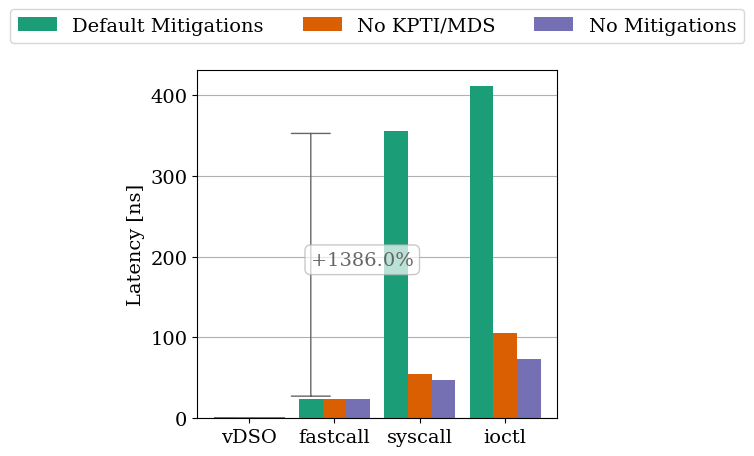
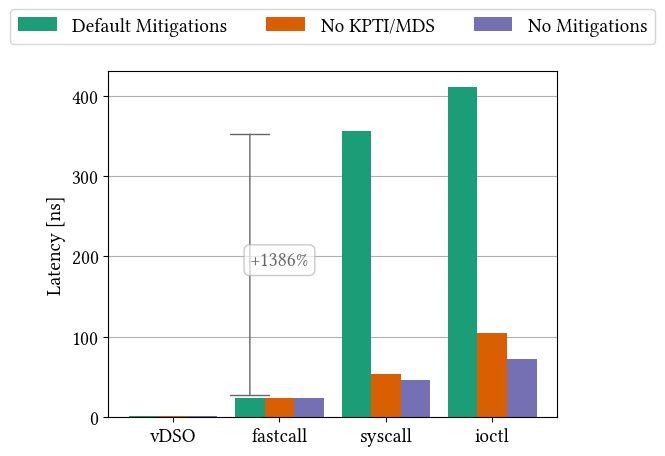
change figure layout
This changes font scaling, figure size and legend positioning.

diff --git a/plotting/fork.py b/plotting/fork.py
@@ -25,14 +25,15 @@ GRID_ENABLE = True
 """Show horizontal grid lines."""
 
 STACK = (
-    ("fastcall", "fork-fastcall", "W/ Registrations"),
-    ("fastcall", "fork-simple", "W/O Registrations"),
+    ("fastcall", "fork-fastcall", "With\nRegistrations"),
+    ("fastcall", "fork-simple", "Without\nRegistrations"),
     ("stock", "fork-simple", "Stock Kernel"),
 )
 """
 (kernel, measure, label) tuples describing the sections of the stacked bar plot.
 """
 
+FIGURE_HEIGHT = 3.6
 PLOT_NAME = "Fork"
 Y_LABEL = "Latency [µs]"
 SCALING = 10 ** -3
@@ -163,7 +164,8 @@ def plot_cpu(cpu_dir, results):
     ax.set_xlim((-0.5, len(MITIGATIONS) - 0.5))
     ax.set_axisbelow(True)
     ax.yaxis.grid(GRID_ENABLE)
-    ax.legend(loc="lower center", ncol=len(labels), bbox_to_anchor=(0.5, 1))
+    ax.legend(loc="center left", bbox_to_anchor=(1, 0.5))
+    fig.set_figheight(FIGURE_HEIGHT)
     fig.tight_layout()
 
     plot_file = path.join(cpu_dir, PLOT_NAME + PLOT_EXT)

diff --git a/plotting/utils.py b/plotting/utils.py
@@ -6,10 +6,11 @@ RESULTS_DIR = "./results/"
 PLOTS_DIR = "./plots/"
 CSV_EXT = ".csv"
 PLOT_EXT = ".png"
+"""Change this to .pdf if you want to generate PDF plots."""
 
-PLOTTED_CPUS= ("AMD_Ryzen_7_3700X_8-Core_Processor",                            
-               "Intel(R)_Xeon(R)_Platinum_8375C_CPU_@_2.90GHz",                 
-               "Intel(R)_Core(TM)_i7-4790_CPU_@_3.60GHz") 
+PLOTTED_CPUS = ("AMD_Ryzen_7_3700X_8-Core_Processor",
+                "Intel(R)_Xeon(R)_Platinum_8375C_CPU_@_2.90GHz",
+                "Intel(R)_Core(TM)_i7-4790_CPU_@_3.60GHz")
 
 MITIGATIONS = {"mitigations=auto": "Default Mitigations",
                "nopti%mds=off": "No KPTI/MDS", "mitigations=off": "No Mitigations"}
@@ -59,7 +60,7 @@ def read_benchmarks():
         for entry in it:
             if not entry.is_dir():
                 continue
-            
+
             if not entry.name in PLOTTED_CPUS:
                 continue
 

diff --git a/plotting/cpucmp.py b/plotting/cpucmp.py
@@ -22,8 +22,10 @@ BAR_WIDTH = 1
 BAR_SPACE = 0.6
 """Space between groups of bars in the plots."""
 
+FIGURE_HEIGHT = 3
+TITLE_FONT = {"fontsize": 14}
 Y_LABEL = "Latency [ns]"
-LABELS = len(PLOT_CPUS) * len(PLOT_MITI)
+LABELS = len(PLOT_MITI)
 BAR_OFFSET = -(LABELS - 1) * BAR_WIDTH / 2
 BAR_GROUP = LABELS * BAR_WIDTH + BAR_SPACE
 PADDING_TOP = 0.05
@@ -62,6 +64,7 @@ def plot_scenario(title, results):
 
     fig.legend(ncol=len(PLOT_MITI), loc="lower center",
                bbox_to_anchor=(0.5, 0.95))
+    fig.set_figheight(FIGURE_HEIGHT)
     fig.tight_layout()
 
     fname = PREFIX + title + PLOT_EXT
@@ -74,7 +77,7 @@ def plot_cpu(ax, cpu, results, y_max, first):
     """Plot the results for a single CPU into a subplot."""
 
     ax.set_prop_cycle(color=COLORS)
-    ax.set_title(cpu)
+    ax.set_title(cpu, TITLE_FONT)
     if first:
         ax.set_ylabel(Y_LABEL)
 
